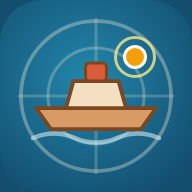
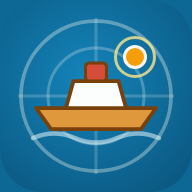
Aplica l'estètica Costa Verda a Enfonsar la flota (v1.2.0)

diff --git a/Flota/css/estil.css b/Flota/css/estil.css
@@ -1,35 +1,35 @@
 /* SPDX-License-Identifier: AGPL-3.0-or-later */
-/* Estils «Atles Marítim i Port Mediterrani» per a Enfonsar la flota */
+/* Estils «Costa Verda» (sàlvia clar, blau oceà, ambre i terracota) per a Enfonsar la flota */
 
 :root {
-  --bg: #f3ead8;
-  --bg-grad-top: #fbf6ec;
-  --surface: #fffdf8;
-  --surface-2: #f7efe0;
-  --border: #dcccb0;
-  --border-strong: #bfa780;
-  --text: #1b3147;
-  --muted: #625645;
-  --sea-1: #1e7497;
-  --sea-2: #165b79;
-  --sea-border: rgba(255, 250, 238, 0.22);
-  --sea-frame: #e9dec8;
-  --primary: #156082;
-  --primary-hover: #0e4a66;
-  --primary-soft: rgba(21, 96, 130, 0.11);
-  --coral: #d95d39;
-  --coral-soft: rgba(217, 93, 57, 0.12);
-  --accent: #0f766e;
-  --accent-hover: #0b5a54;
+  --bg: #d7e6dd;
+  --bg-grad-top: #edf4ef;
+  --surface: #fcfefd;
+  --surface-2: #edf4ef;
+  --border: #c2d6ca;
+  --border-strong: #94b4a2;
+  --text: #16332c;
+  --muted: #4b695e;
+  --sea-1: #1179ad;
+  --sea-2: #0b5a83;
+  --sea-border: rgba(232, 247, 255, 0.24);
+  --sea-frame: #e3ede7;
+  --primary: #0d6896;
+  --primary-hover: #094e72;
+  --primary-soft: rgba(13, 104, 150, 0.11);
+  --coral: #d44d38;
+  --coral-soft: rgba(212, 77, 56, 0.11);
+  --accent: #147a5f;
+  --accent-hover: #0e5d48;
   --hit: #ea580c;
   --sunk: #dc2626;
-  --ship-wood-1: #dca167;
-  --ship-wood-2: #af6c35;
-  --ship-border: #78421a;
+  --ship-wood-1: #e0983c;
+  --ship-wood-2: #b96d1a;
+  --ship-border: #78400b;
   --cell-place: clamp(26px, min(4.3vw, 5.1dvh), 44px);
   --cell-battle: clamp(23px, min(3.05vw, 4.85dvh), 46px);
   --radius: 14px;
-  --shadow: 0 10px 26px rgba(72, 50, 22, 0.1);
+  --shadow: 0 10px 26px rgba(18, 52, 42, 0.08);
   font-size: clamp(13px, min(1.02vw, 1.82vh), 17px);
 }
 
@@ -46,8 +46,8 @@ html, body {
   padding: 0;
   min-height: 100dvh;
   background:
-    radial-gradient(circle at 18% 0%, #fffaf0 0%, transparent 45%),
-    radial-gradient(circle at 86% 12%, rgba(217, 93, 57, 0.08) 0%, transparent 42%),
+    radial-gradient(circle at 18% 0%, #f7fbf8 0%, transparent 45%),
+    radial-gradient(circle at 86% 12%, rgba(13, 104, 150, 0.08) 0%, transparent 42%),
     linear-gradient(180deg, var(--bg-grad-top), var(--bg));
   color: var(--text);
   font-family: system-ui, -apple-system, 'Segoe UI', Roboto, Ubuntu, sans-serif;
@@ -72,7 +72,7 @@ body {
   position: sticky;
   top: 0;
   z-index: 20;
-  background: rgba(255, 252, 245, 0.92);
+  background: rgba(247, 251, 248, 0.92);
   backdrop-filter: blur(10px);
   border-bottom: 1px solid var(--border);
 }
@@ -144,24 +144,24 @@ body {
 }
 
 .btn-install-top {
-  border-color: rgba(21, 96, 130, 0.4);
-  background: rgba(21, 96, 130, 0.1);
+  border-color: rgba(13, 104, 150, 0.4);
+  background: rgba(13, 104, 150, 0.1);
   color: var(--primary);
 }
 
 .btn-install-top:hover {
-  background: rgba(21, 96, 130, 0.18);
+  background: rgba(13, 104, 150, 0.18);
 }
 
 .btn-exit {
-  border-color: rgba(217, 93, 57, 0.45);
-  color: #b53d1c;
-  background: rgba(217, 93, 57, 0.08);
+  border-color: rgba(212, 77, 56, 0.45);
+  color: #a63422;
+  background: rgba(212, 77, 56, 0.08);
 }
 
 .btn-exit:hover {
-  background: rgba(217, 93, 57, 0.16);
-  border-color: rgba(217, 93, 57, 0.7);
+  background: rgba(212, 77, 56, 0.16);
+  border-color: rgba(212, 77, 56, 0.7);
 }
 
 /* Contenidor principal */
@@ -231,7 +231,7 @@ body {
 }
 
 .btn-secondary:hover:not(:disabled) {
-  background: #ede1ca;
+  background: #dce9e1;
 }
 
 .btn-accent {
@@ -264,9 +264,9 @@ body {
   display: inline-block;
   padding: 0.22rem 0.72rem;
   border-radius: 999px;
-  border: 1px solid rgba(217, 93, 57, 0.35);
+  border: 1px solid rgba(212, 77, 56, 0.35);
   background: var(--coral-soft);
-  color: #a93c1e;
+  color: #a63422;
   font-size: 0.78rem;
   font-weight: 700;
   letter-spacing: 0.01em;
@@ -278,7 +278,7 @@ body {
   font-size: clamp(1.55rem, 2.7vw, 2.25rem);
   font-weight: 800;
   letter-spacing: -0.02em;
-  color: #142a40;
+  color: #112a24;
 }
 
 .hero-sub {
@@ -293,8 +293,8 @@ body {
   max-width: 640px;
   padding: 0.55rem 0.85rem;
   border-radius: 10px;
-  border: 1px solid rgba(21, 96, 130, 0.4);
-  background: #fffaf0;
+  border: 1px solid rgba(13, 104, 150, 0.35);
+  background: #f5faf7;
   display: flex;
   flex-wrap: wrap;
   align-items: center;
@@ -404,7 +404,7 @@ body {
   padding: 0.56rem 0.72rem;
   border-radius: 10px;
   border: 1px solid var(--border-strong);
-  background: #fffaf0;
+  background: #f5faf7;
   color: var(--text);
   font-family: ui-monospace, SFMono-Regular, Menlo, Consolas, monospace;
   font-size: 1.05rem;
@@ -419,7 +419,7 @@ body {
   text-transform: none;
   font-weight: 500;
   font-size: 0.88rem;
-  color: #8b7b65;
+  color: #5c7a6f;
 }
 
 .join-row input:focus {
@@ -454,7 +454,7 @@ body {
   padding: 0.58rem 0.65rem;
   border-radius: 10px;
   border: 1px solid var(--border);
-  background: #fdf9f0;
+  background: #f5faf7;
   color: var(--text);
   text-align: left;
   cursor: pointer;
@@ -489,7 +489,7 @@ body {
   padding: 0.72rem 1rem;
   border-radius: 12px;
   border: 1px solid var(--border);
-  background: linear-gradient(90deg, #fffdf8, #f7ecda);
+  background: linear-gradient(90deg, #fcfefd, #e9f2ec);
   box-shadow: var(--shadow);
 }
 
@@ -651,7 +651,7 @@ body {
   place-items: center;
   font-size: 0.72rem;
   font-weight: 700;
-  color: #544635;
+  color: #365247;
   font-variant-numeric: tabular-nums;
 }
 
@@ -814,7 +814,7 @@ body {
   padding: 0.48rem 0.65rem;
   border-radius: 9px;
   border: 1px solid var(--border);
-  background: #fdf9f0;
+  background: #f5faf7;
   color: var(--text);
   cursor: pointer;
   transition: border-color 0.15s, background 0.15s;
@@ -956,7 +956,7 @@ body {
   padding: 0.2rem 0.5rem;
   border-radius: 6px;
   border: 1px solid var(--border);
-  background: #fdf9f0;
+  background: #f5faf7;
   font-size: 0.74rem;
   font-weight: 600;
   color: var(--text);
@@ -1024,7 +1024,7 @@ body {
   padding: 0.75rem 1rem;
   border-radius: 12px;
   border: 1px solid var(--border-strong);
-  background: #fffaf0;
+  background: #f5faf7;
   box-shadow: var(--shadow);
 }
 
@@ -1179,15 +1179,15 @@ body {
   z-index: 40;
   padding: 0.52rem 0.95rem;
   border-radius: 999px;
-  background: #17324d;
-  border: 1px solid rgba(255, 250, 238, 0.35);
-  color: #fffdf8;
+  background: #16332c;
+  border: 1px solid rgba(244, 249, 246, 0.35);
+  color: #fcfefd;
   font-size: 0.86rem;
   font-weight: 600;
   box-shadow: var(--shadow);
 }
 
-/* Peu corporatiu (felip-app-footer) integrat amb la paleta càlida */
+/* Peu corporatiu (felip-app-footer) integrat amb la paleta Costa Verda */
 .felip-app-footer {
   position: fixed;
   right: 0;
@@ -1200,7 +1200,7 @@ body {
   gap: 10px;
   padding: 6px clamp(14px, 3vw, 34px) 7px;
   border-top: 1px solid var(--border);
-  background: rgba(250, 244, 232, 0.96);
+  background: rgba(244, 249, 246, 0.96);
   backdrop-filter: blur(8px);
   color: var(--muted);
   font-size: 0.78rem;

diff --git a/Flota/index.html b/Flota/index.html
@@ -4,7 +4,7 @@
 <head>
   <meta charset="utf-8">
   <meta name="viewport" content="width=device-width, initial-scale=1, viewport-fit=cover">
-  <meta name="theme-color" content="#134e6f">
+  <meta name="theme-color" content="#0d6896">
   <meta name="apple-mobile-web-app-capable" content="yes">
   <meta name="apple-mobile-web-app-status-bar-style" content="default">
   <meta name="apple-mobile-web-app-title" content="Flota">
@@ -13,8 +13,8 @@
   <link rel="manifest" href="manifest.webmanifest">
   <link rel="icon" href="assets/favicon.svg" type="image/svg+xml">
   <link rel="apple-touch-icon" href="assets/apple-touch-icon.png">
-  <link rel="stylesheet" href="css/estil.css?v=1.1.1">
-  <script type="module" src="js/app.js?v=1.1.1"></script>
+  <link rel="stylesheet" href="css/estil.css?v=1.2.0">
+  <script type="module" src="js/app.js?v=1.2.0"></script>
 </head>
 <body>
   <header class="topbar">

diff --git a/Flota/js/qr.js b/Flota/js/qr.js
@@ -250,7 +250,7 @@ function penaltyScore(grid, n) {
   return score;
 }
 
-export function renderQrSvg(text, darkColor = '#17324d', lightColor = '#fffdf8') {
+export function renderQrSvg(text, darkColor = '#16332c', lightColor = '#fcfefd') {
   const { spec, allBytes } = encodeBytes(text);
   const base = buildMatrix(spec, allBytes);
 

diff --git a/Flota/sw.js b/Flota/sw.js
@@ -1,7 +1,7 @@
 /* SPDX-License-Identifier: AGPL-3.0-or-later */
 /* Service Worker per a ús fora de línia i instal·lació PWA d'Enfonsar la flota */
 
-const CACHE_NAME = 'enfonsar-la-flota-v1.1.1';
+const CACHE_NAME = 'enfonsar-la-flota-v1.2.0';
 const APP_SHELL = [
   './',
   './index.html',

diff --git a/Flota/README.md b/Flota/README.md
@@ -11,7 +11,7 @@ Versió web i instal·lable (PWA) del joc tradicional de batalla naval, en catal
 - **Joc net verificat:** les posicions dels vaixells no surten del navegador durant la partida; s'envia una empremta SHA-256 a l'inici i es verifica al final.
 - **Contra la màquina (també sense internet):** tres nivells d'IA (*Grumet*, *Capità* i *Almirall* amb càlcul de densitat probabilística).
 - **Regles tradicionals:** tauler `10×10` (`A–J`, `1–10`), flota clàssica de 5 vaixells (*Portaavions* 5, *Cuirassat* 4, *Creuer* 3, *Submarí* 3 i *Patrullera* 2), separació obligatòria d'1 casella d'aigua al voltant de cada vaixell (incloent-hi les diagonals) i 1 tret per torn.
-- **Estètica càlida d'atles marítim:** fons de pergamí clar, mar mediterrani turquesa i vaixells de fusta de teca.
+- **Estètica «Costa Verda»:** fons sàlvia clar, targetes blanques nítides, mar blau oceà i vaixells de to ambre càlid.
 - **Instal·lable al mòbil i a l'ordinador:** botó visible per instal·lar l'app (amb prompt directe a Android/Chrome i guia visual per a Safari a iOS) i *Service Worker* per jugar contra la màquina fora de línia.
 - **Àudio tàctic sintètic:** efectes de radar, aigua, impacte i enfonsament generats per Web Audio API, amb botó de silenci.
 
